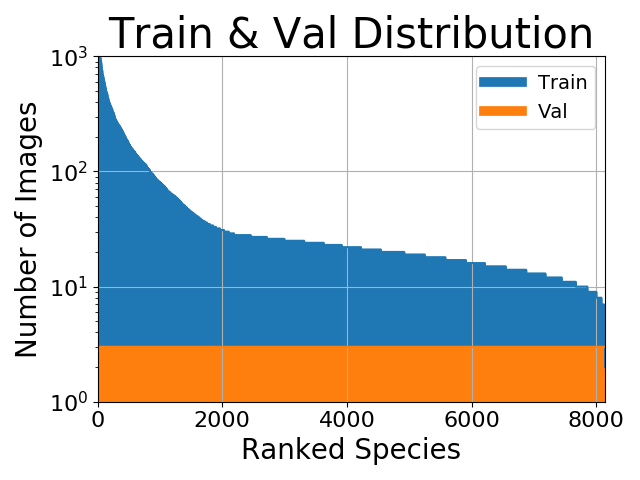
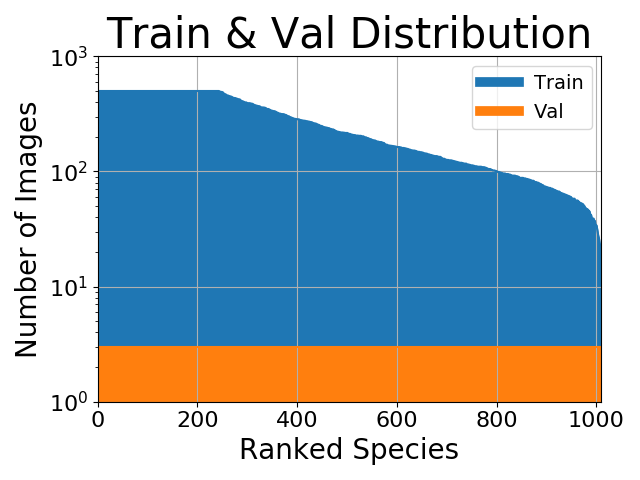
working on 2019

diff --git a/2018/README.md b/2018/README.md
@@ -1,52 +1,86 @@
-![Banner](https://rawgit.com/visipedia/inat_comp/master/assets/banner2019.gif)
+![Banner](https://rawgit.com/visipedia/inat_comp/master/assets/banner2018.jpg)
 
-# iNaturalist 2019 Competition
-The 2019 competition is part of the [FGVC^6 workshop](https://sites.google.com/view/fgvc6/home) at [CVPR](http://cvpr2019.thecvf.com/).
+# iNaturalist 2018 Competition
+The 2018 competition is part of the [FGVC^5 workshop](https://sites.google.com/view/fgvc5/home) at [CVPR](http://cvpr2018.thecvf.com/).
 
 Please open an issue if you have questions or problems with the dataset.
 
 ## Updates
-August 6th, 2019: 
+June 23rd, 2018: 
   * Un-obfuscated names are released. Simply replace the `categories` list in the dataset files with the list found in this [file](http://www.vision.caltech.edu/~gvanhorn/datasets/inaturalist/fgvc5_competition/categories.json.tar.gz).
 
-  * Thanks to everyone who attended and participated in the [FGVC5 workshop](https://sites.google.com/view/fgvc6/home)! Slides from the competition overview can be found [here](https://drive.google.com/file/d/1Ah5haDF6kFioQzy45-HKTsxZCqGwondf/view).
+  * Thanks to everyone who attended and participated in the [FGVC5 workshop](https://sites.google.com/view/fgvc5/home)! Slides from the competition overview and presentations from the top two teams can be found [here](https://www.dropbox.com/s/52nz6qc3zcwqhoa/iNaturalist_Competition_FGVC_2018.pdf?dl=0).
+
+  * A video of the validation images can be viewed [here](https://www.youtube.com/watch?v=LNq1rCUf7v4).
+
+April 10th, 2018: Bounding boxes have been added to the 2017 dataset, see [here](2017/README.md#bounding-boxes).
 
 ## Kaggle
-We are using Kaggle to host the leaderboard. Checkout the competition page [here](https://www.kaggle.com/c/inaturalist-2019-fgvc6).
+We are using Kaggle to host the leaderboard. Checkout the competition page [here](https://www.kaggle.com/c/inaturalist-2018).
 
 ## Dates
 |||
 |------|---------------|
-Data Released|March, 2019|
-Submission Server Open |March, 2019|
-Submission Deadline|June, 2019|
-Winners Announced|June, 2019|
+Data Released|February, 2018|
+Submission Server Open |February, 2018|
+Submission Deadline|June, 2018|
+Winners Announced|June, 2018|
 
 ## Details
-There are a total of 1,010 species in the dataset, spanning 72 genera, with a combined training and validation set of 268,243 images. The dataset was constructed such that each genera contains at least 10 species, making the dataset inherently fine-grained. 
+There are a total of 8,142 species in the dataset, with 437,513 training and 24,426 validation images.
+
+| Super Category |	Category Count	| Train Images |	Val Images |
+|------|---------------|-------------|---------------|
+Plantae|2,917|118,800|8,751|
+Insecta|2,031|87,192|6,093|
+Aves|1,258|143,950|3,774|
+Actinopterygii|369|7,835|1,107|
+Fungi|321|6,864|963|
+Reptilia|284|22,754|852|
+Mollusca|262|8,007|786|
+Mammalia|234|20,104|702|
+Animalia|178|5,966|534|
+Amphibia|144|11,156|432|
+Arachnida|114|4,037|342|
+Chromista|25|621|75|
+Protozoa|4|211|12|
+Bacteria|1|16|3|
+|||||
+Total|8,142|437,513|24,426|
 
 ![Train Val Distribution](https://rawgit.com/visipedia/inat_comp/master/assets/train_val_distribution.png)
 
+## Video
+Click on the image below to view a video showing images from the validation set.
+[![Video](https://rawgit.com/visipedia/inat_comp/master/assets/inat2018_video.png)](https://www.youtube.com/watch?v=LNq1rCUf7v4)
 
 ## Evaluation
-This competition employs average top-1 error. For each image <img src="https://rawgit.com/visipedia/inat_comp/2019/svgs/77a3b857d53fb44e33b53e4c8b68351a.svg?invert_in_darkmode" align=middle width=5.642109000000004pt height=21.602129999999985pt/>, an algorithm will produce 1 label <img src="https://rawgit.com/visipedia/inat_comp/2019/svgs/bb29cf3d0decad4c2df62b08fbcb2d23.svg?invert_in_darkmode" align=middle width=9.520170000000002pt height=22.745910000000016pt/>. Each image has one ground truth label <img src="https://rawgit.com/visipedia/inat_comp/2019/svgs/681a37b53b66acbc455e39ca3e6f1c41.svg?invert_in_darkmode" align=middle width=12.444795000000004pt height=14.102549999999994pt/>, and the error for that image is:
-<p align="center"><img src="https://rawgit.com/visipedia/inat_comp/2019/svgs/d04cfdb4d46bd80e8835a37572804c82.svg?invert_in_darkmode" align=middle width=87.16207499999999pt height=16.376943pt/></p>
+We follow a similar metric to the classification tasks of the [ILSVRC](http://image-net.org/challenges/LSVRC/2016/index#scene). For each image <img src="https://rawgit.com/visipedia/inat_comp/2019/2018/svgs/77a3b857d53fb44e33b53e4c8b68351a.svg?invert_in_darkmode" align=middle width=5.642109000000004pt height=21.602129999999985pt/>, an algorithm will produce 3 labels <img src="https://rawgit.com/visipedia/inat_comp/2019/2018/svgs/655bedbaf4a65f397b5041d0fdecde4c.svg?invert_in_darkmode" align=middle width=15.601905000000002pt height=22.745910000000016pt/>, <img src="https://rawgit.com/visipedia/inat_comp/2019/2018/svgs/946e592e2b2753a9272767ae3dd5b9a9.svg?invert_in_darkmode" align=middle width=82.4274pt height=21.602129999999985pt/>. We allow 3 labels because some categories are disambiguated with additional data provided by the observer, such as latitude, longitude and date. For a small percentage of images, it might also be the case that multiple categories occur in an image (e.g. a photo of a bee on a flower). For this competition each image has one ground truth label <img src="https://rawgit.com/visipedia/inat_comp/2019/2018/svgs/681a37b53b66acbc455e39ca3e6f1c41.svg?invert_in_darkmode" align=middle width=12.444795000000004pt height=14.102549999999994pt/>, and the error for that image is:
+<p align="center"><img src="https://rawgit.com/visipedia/inat_comp/2019/2018/svgs/7a42826f81c53c77e0fef3c827238d25.svg?invert_in_darkmode" align=middle width=123.40366499999999pt height=24.865665pt/></p>
 Where
-<p align="center"><img src="https://rawgit.com/visipedia/inat_comp/2019/svgs/7a45c501d5042bd031a267f008fa2ae6.svg?invert_in_darkmode" align=middle width=190.2021pt height=49.131389999999996pt/></p>
+<p align="center"><img src="https://rawgit.com/visipedia/inat_comp/2019/2018/svgs/7a45c501d5042bd031a267f008fa2ae6.svg?invert_in_darkmode" align=middle width=190.2021pt height=49.131389999999996pt/></p>
 
-The overall error score for an algorithm is the average error over all <img src="https://rawgit.com/visipedia/inat_comp/2019/svgs/f9c4988898e7f532b9f826a75014ed3c.svg?invert_in_darkmode" align=middle width=14.944050000000002pt height=22.381919999999983pt/> test images:
-<p align="center"><img src="https://rawgit.com/visipedia/inat_comp/2019/svgs/444adcac0c7cbb4a8419ee1484625349.svg?invert_in_darkmode" align=middle width=118.05122999999999pt height=41.069655pt/></p>
+The overall error score for an algorithm is the average error over all <img src="https://rawgit.com/visipedia/inat_comp/2019/2018/svgs/f9c4988898e7f532b9f826a75014ed3c.svg?invert_in_darkmode" align=middle width=14.944050000000002pt height=22.381919999999983pt/> test images:
+<p align="center"><img src="https://rawgit.com/visipedia/inat_comp/2019/2018/svgs/444adcac0c7cbb4a8419ee1484625349.svg?invert_in_darkmode" align=middle width=118.05122999999999pt height=41.069655pt/></p>
 
-## Differences from iNaturalist 2018 Competition
-The primary difference between the 2019 competition and the [2018 Competition](2018/README.md) is the way species were selected for the dataset. For the 2019 dataset, we filtered out all species that had insufficient observations. From this reduced set, we filtered out all species that were not members of genera with at least 10 species remaining. This produced a dataset of 72 genera, each with at least 10 species, for a total of 1010 species. Our aim was to produce a collection of fine-grained problems that are representative of the natural world. We made the evalue metric more strict in 2019, going to top-1 error as opposed to top-3. 
+## Differences from iNaturalist 2017 Competition
+The 2018 competition differs from the [2017 Competition](2017/README.md) in several ways:
 
+### Species Only
+The 2017 dataset categories contained mostly species, but also had a few additional taxonomic ranks (e.g. genus, subspecies, and variety). The 2018 categories are all species.
 
+### Taxonomy Information & Obfuscation
+The 2018 dataset contains kingdom, phylum, class, order, family, and genus taxonomic information for all species. However, we have obfuscated all taxonomic names (including the species name) to hinder participants from performing web searchs to collect additional data.
 
+### Data Overlap
+The 2018 dataset contains some species and images that are found in the 2017 dataset. However, we will not provide a mapping between the two datasets.
 
+### Scoring Metric
+The 2018 competition allows for 3 guesses per test image, whereas the 2017 competition allowed 5.
 
 ## Guidelines
 
-Participants are welcome to use the [iNaturalist 2018](2018/README.md) and [iNaturalist 2017](2017/README.md) competition datasets as an additional data source. There is an overlap between the 2017 + 2018 species and the 2019 species, however we do not provide a mapping. Besides using the 2017 and 2018 datasetd, participants are restricted from collecting additional natural world data for the 2019 competition. Pretrained models may be used to construct the algorithms (e.g. ImageNet pretrained models, or iNaturalist 2017 pretrained models). Please specify any and all external data used for training when uploading results.
+Participants are welcome to use the [iNaturalist 2017 Competition dataset](2017/README.md) as an additional data source. There is an overlap between the 2017 species and the 2018 species, however we do not provide a mapping between the two datasets. Besides using the 2017 dataset, participants are restricted from collecting additional natural world data for the 2018 competition. Pretrained models may be used to construct the algorithms (e.g. ImageNet pretrained models, or iNaturalist 2017 pretrained models). Please specify any and all external data used for training when uploading results.
 
 The general rule is that participants should only use the provided training and validation images (with the exception of the allowed pretrained models) to train a model to classify the test images. We do not want participants crawling the web in search of additional data for the target categories. Participants should be in the mindset that this is the only data available for these categories.
 
@@ -84,6 +118,7 @@ image{
 category{
   "id" : int,
   "name" : str,
+  "supercategory" : str,
   "kingdom" : str,
   "phylum" : str,
   "class" : str,
@@ -110,10 +145,10 @@ license{
 The submission format for the Kaggle competition is a csv file with the following format:
 ```
 id,predicted
-12345,0
-67890,83
+12345,0 78 23
+67890,83 13 42
 ```
-The `id` column corresponds to the test image id. The `predicted` column corresponds to the predicted category ids. You should have one row for each test image.
+The `id` column corresponds to the test image id. The `predicted` column corresponds to 3 category ids, separated by spaces. You should have one row for each test image. Please sort your predictions from most confident to least, from left to right, this will allow us to study top-1, top-2, and top-3 accuracy.
 
 ## Terms of Use
 

diff --git a/2018/README_raw.md b/2018/README_raw.md
@@ -1,52 +1,96 @@
-![Banner](https://rawgit.com/visipedia/inat_comp/master/assets/banner2019.gif)
+![Banner](https://rawgit.com/visipedia/inat_comp/master/assets/banner2018.jpg)
 
-# iNaturalist 2019 Competition
-The 2019 competition is part of the [FGVC^6 workshop](https://sites.google.com/view/fgvc6/home) at [CVPR](http://cvpr2019.thecvf.com/).
+# iNaturalist 2018 Competition
+The 2018 competition is part of the [FGVC^5 workshop](https://sites.google.com/view/fgvc5/home) at [CVPR](http://cvpr2018.thecvf.com/).
 
 Please open an issue if you have questions or problems with the dataset.
 
 ## Updates
-August 6th, 2019: 
+June 23rd, 2018: 
   * Un-obfuscated names are released. Simply replace the `categories` list in the dataset files with the list found in this [file](http://www.vision.caltech.edu/~gvanhorn/datasets/inaturalist/fgvc5_competition/categories.json.tar.gz).
 
-  * Thanks to everyone who attended and participated in the [FGVC5 workshop](https://sites.google.com/view/fgvc6/home)! Slides from the competition overview can be found [here](https://drive.google.com/file/d/1Ah5haDF6kFioQzy45-HKTsxZCqGwondf/view).
+  * Thanks to everyone who attended and participated in the [FGVC5 workshop](https://sites.google.com/view/fgvc5/home)! Slides from the competition overview and presentations from the top two teams can be found [here](https://www.dropbox.com/s/52nz6qc3zcwqhoa/iNaturalist_Competition_FGVC_2018.pdf?dl=0).
+
+  * A video of the validation images can be viewed [here](https://www.youtube.com/watch?v=LNq1rCUf7v4).
+
+April 10th, 2018: Bounding boxes have been added to the 2017 dataset, see [here](2017/README.md#bounding-boxes).
 
 ## Kaggle
-We are using Kaggle to host the leaderboard. Checkout the competition page [here](https://www.kaggle.com/c/inaturalist-2019-fgvc6).
+We are using Kaggle to host the leaderboard. Checkout the competition page [here](https://www.kaggle.com/c/inaturalist-2018).
 
 ## Dates
 |||
 |------|---------------|
-Data Released|March, 2019|
-Submission Server Open |March, 2019|
-Submission Deadline|June, 2019|
-Winners Announced|June, 2019|
+Data Released|February, 2018|
+Submission Server Open |February, 2018|
+Submission Deadline|June, 2018|
+Winners Announced|June, 2018|
 
 ## Details
-There are a total of 1,010 species in the dataset, spanning 72 genera, with a combined training and validation set of 268,243 images. The dataset was constructed such that each genera contains at least 10 species, making the dataset inherently fine-grained. 
+There are a total of 8,142 species in the dataset, with 437,513 training and 24,426 validation images.
+
+| Super Category |	Category Count	| Train Images |	Val Images |
+|------|---------------|-------------|---------------|
+Plantae|2,917|118,800|8,751|
+Insecta|2,031|87,192|6,093|
+Aves|1,258|143,950|3,774|
+Actinopterygii|369|7,835|1,107|
+Fungi|321|6,864|963|
+Reptilia|284|22,754|852|
+Mollusca|262|8,007|786|
+Mammalia|234|20,104|702|
+Animalia|178|5,966|534|
+Amphibia|144|11,156|432|
+Arachnida|114|4,037|342|
+Chromista|25|621|75|
+Protozoa|4|211|12|
+Bacteria|1|16|3|
+|||||
+Total|8,142|437,513|24,426|
 
 ![Train Val Distribution](https://rawgit.com/visipedia/inat_comp/master/assets/train_val_distribution.png)
 
+## Video
+Click on the image below to view a video showing images from the validation set.
+[![Video](https://rawgit.com/visipedia/inat_comp/master/assets/inat2018_video.png)](https://www.youtube.com/watch?v=LNq1rCUf7v4)
 
 ## Evaluation
-This competition employs average top-1 error. For each image <img src="https://rawgit.com/visipedia/inat_comp/2019/svgs/77a3b857d53fb44e33b53e4c8b68351a.svg?invert_in_darkmode" align=middle width=5.642109000000004pt height=21.602129999999985pt/>, an algorithm will produce 1 label <img src="https://rawgit.com/visipedia/inat_comp/2019/svgs/bb29cf3d0decad4c2df62b08fbcb2d23.svg?invert_in_darkmode" align=middle width=9.520170000000002pt height=22.745910000000016pt/>. Each image has one ground truth label <img src="https://rawgit.com/visipedia/inat_comp/2019/svgs/681a37b53b66acbc455e39ca3e6f1c41.svg?invert_in_darkmode" align=middle width=12.444795000000004pt height=14.102549999999994pt/>, and the error for that image is:
-<p align="center"><img src="https://rawgit.com/visipedia/inat_comp/2019/svgs/d04cfdb4d46bd80e8835a37572804c82.svg?invert_in_darkmode" align=middle width=87.16207499999999pt height=16.376943pt/></p>
+We follow a similar metric to the classification tasks of the [ILSVRC](http://image-net.org/challenges/LSVRC/2016/index#scene). For each image $i$, an algorithm will produce 3 labels $l_{ij}$, $j=1,\ldots,3$. We allow 3 labels because some categories are disambiguated with additional data provided by the observer, such as latitude, longitude and date. For a small percentage of images, it might also be the case that multiple categories occur in an image (e.g. a photo of a bee on a flower). For this competition each image has one ground truth label $g_i$, and the error for that image is:
+$$
+e_i = \min_{j}d(l_{ij}, g_i)
+$$
 Where
-<p align="center"><img src="https://rawgit.com/visipedia/inat_comp/2019/svgs/7a45c501d5042bd031a267f008fa2ae6.svg?invert_in_darkmode" align=middle width=190.2021pt height=49.131389999999996pt/></p>
+$$
+d(x, y) =
+\begin{cases}
+    0       & \quad \text{if } x = y \\
+    1  & \quad \text{otherwise}\\
+\end{cases}
+$$
 
-The overall error score for an algorithm is the average error over all <img src="https://rawgit.com/visipedia/inat_comp/2019/svgs/f9c4988898e7f532b9f826a75014ed3c.svg?invert_in_darkmode" align=middle width=14.944050000000002pt height=22.381919999999983pt/> test images:
-<p align="center"><img src="https://rawgit.com/visipedia/inat_comp/2019/svgs/444adcac0c7cbb4a8419ee1484625349.svg?invert_in_darkmode" align=middle width=118.05122999999999pt height=41.069655pt/></p>
+The overall error score for an algorithm is the average error over all $N$ test images:
+$$
+\text{score} = \frac{1}{N} \sum_{i} e_{i}
+$$
 
-## Differences from iNaturalist 2018 Competition
-The primary difference between the 2019 competition and the [2018 Competition](2018/README.md) is the way species were selected for the dataset. For the 2019 dataset, we filtered out all species that had insufficient observations. From this reduced set, we filtered out all species that were not members of genera with at least 10 species remaining. This produced a dataset of 72 genera, each with at least 10 species, for a total of 1010 species. Our aim was to produce a collection of fine-grained problems that are representative of the natural world. We made the evalue metric more strict in 2019, going to top-1 error as opposed to top-3. 
+## Differences from iNaturalist 2017 Competition
+The 2018 competition differs from the [2017 Competition](2017/README.md) in several ways:
 
+### Species Only
+The 2017 dataset categories contained mostly species, but also had a few additional taxonomic ranks (e.g. genus, subspecies, and variety). The 2018 categories are all species.
 
+### Taxonomy Information & Obfuscation
+The 2018 dataset contains kingdom, phylum, class, order, family, and genus taxonomic information for all species. However, we have obfuscated all taxonomic names (including the species name) to hinder participants from performing web searchs to collect additional data.
 
+### Data Overlap
+The 2018 dataset contains some species and images that are found in the 2017 dataset. However, we will not provide a mapping between the two datasets.
 
+### Scoring Metric
+The 2018 competition allows for 3 guesses per test image, whereas the 2017 competition allowed 5.
 
 ## Guidelines
 
-Participants are welcome to use the [iNaturalist 2018](2018/README.md) and [iNaturalist 2017](2017/README.md) competition datasets as an additional data source. There is an overlap between the 2017 + 2018 species and the 2019 species, however we do not provide a mapping. Besides using the 2017 and 2018 datasetd, participants are restricted from collecting additional natural world data for the 2019 competition. Pretrained models may be used to construct the algorithms (e.g. ImageNet pretrained models, or iNaturalist 2017 pretrained models). Please specify any and all external data used for training when uploading results.
+Participants are welcome to use the [iNaturalist 2017 Competition dataset](2017/README.md) as an additional data source. There is an overlap between the 2017 species and the 2018 species, however we do not provide a mapping between the two datasets. Besides using the 2017 dataset, participants are restricted from collecting additional natural world data for the 2018 competition. Pretrained models may be used to construct the algorithms (e.g. ImageNet pretrained models, or iNaturalist 2017 pretrained models). Please specify any and all external data used for training when uploading results.
 
 The general rule is that participants should only use the provided training and validation images (with the exception of the allowed pretrained models) to train a model to classify the test images. We do not want participants crawling the web in search of additional data for the target categories. Participants should be in the mindset that this is the only data available for these categories.
 
@@ -84,6 +128,7 @@ image{
 category{
   "id" : int,
   "name" : str,
+  "supercategory" : str,
   "kingdom" : str,
   "phylum" : str,
   "class" : str,
@@ -110,10 +155,10 @@ license{
 The submission format for the Kaggle competition is a csv file with the following format:
 ```
 id,predicted
-12345,0
-67890,83
+12345,0 78 23
+67890,83 13 42
 ```
-The `id` column corresponds to the test image id. The `predicted` column corresponds to the predicted category ids. You should have one row for each test image.
+The `id` column corresponds to the test image id. The `predicted` column corresponds to 3 category ids, separated by spaces. You should have one row for each test image. Please sort your predictions from most confident to least, from left to right, this will allow us to study top-1, top-2, and top-3 accuracy.
 
 ## Terms of Use
 

diff --git a/README_raw.md b/README_raw.md
@@ -1,63 +1,37 @@
-![Banner](https://rawgit.com/visipedia/inat_comp/master/assets/banner2018.jpg)
+![Banner](https://rawgit.com/visipedia/inat_comp/master/assets/banner2019.gif)
 
-# iNaturalist 2018 Competition
-The 2018 competition is part of the [FGVC^5 workshop](https://sites.google.com/view/fgvc5/home) at [CVPR](http://cvpr2018.thecvf.com/).
+# iNaturalist 2019 Competition
+The 2019 competition is part of the [FGVC^6 workshop](https://sites.google.com/view/fgvc6/home) at [CVPR](http://cvpr2019.thecvf.com/).
 
 Please open an issue if you have questions or problems with the dataset.
 
 ## Updates
-June 23rd, 2018: 
+August 6th, 2019: 
   * Un-obfuscated names are released. Simply replace the `categories` list in the dataset files with the list found in this [file](http://www.vision.caltech.edu/~gvanhorn/datasets/inaturalist/fgvc5_competition/categories.json.tar.gz).
 
-  * Thanks to everyone who attended and participated in the [FGVC5 workshop](https://sites.google.com/view/fgvc5/home)! Slides from the competition overview and presentations from the top two teams can be found [here](https://www.dropbox.com/s/52nz6qc3zcwqhoa/iNaturalist_Competition_FGVC_2018.pdf?dl=0).
-
-  * A video of the validation images can be viewed [here](https://www.youtube.com/watch?v=LNq1rCUf7v4).
-
-April 10th, 2018: Bounding boxes have been added to the 2017 dataset, see [here](2017/README.md#bounding-boxes).
+  * Thanks to everyone who attended and participated in the [FGVC5 workshop](https://sites.google.com/view/fgvc6/home)! Slides from the competition overview can be found [here](https://drive.google.com/file/d/1Ah5haDF6kFioQzy45-HKTsxZCqGwondf/view).
 
 ## Kaggle
-We are using Kaggle to host the leaderboard. Checkout the competition page [here](https://www.kaggle.com/c/inaturalist-2018).
+We are using Kaggle to host the leaderboard. Checkout the competition page [here](https://www.kaggle.com/c/inaturalist-2019-fgvc6).
 
 ## Dates
 |||
 |------|---------------|
-Data Released|February, 2018|
-Submission Server Open |February, 2018|
-Submission Deadline|June, 2018|
-Winners Announced|June, 2018|
+Data Released|March, 2019|
+Submission Server Open |March, 2019|
+Submission Deadline|June, 2019|
+Winners Announced|June, 2019|
 
 ## Details
-There are a total of 8,142 species in the dataset, with 437,513 training and 24,426 validation images.
-
-| Super Category |	Category Count	| Train Images |	Val Images |
-|------|---------------|-------------|---------------|
-Plantae|2,917|118,800|8,751|
-Insecta|2,031|87,192|6,093|
-Aves|1,258|143,950|3,774|
-Actinopterygii|369|7,835|1,107|
-Fungi|321|6,864|963|
-Reptilia|284|22,754|852|
-Mollusca|262|8,007|786|
-Mammalia|234|20,104|702|
-Animalia|178|5,966|534|
-Amphibia|144|11,156|432|
-Arachnida|114|4,037|342|
-Chromista|25|621|75|
-Protozoa|4|211|12|
-Bacteria|1|16|3|
-|||||
-Total|8,142|437,513|24,426|
+There are a total of 1,010 species in the dataset, spanning 72 genera, with a combined training and validation set of 268,243 images. The dataset was constructed such that each genera contains at least 10 species, making the dataset inherently fine-grained. 
 
 ![Train Val Distribution](https://rawgit.com/visipedia/inat_comp/master/assets/train_val_distribution.png)
 
-## Video
-Click on the image below to view a video showing images from the validation set.
-[![Video](https://rawgit.com/visipedia/inat_comp/master/assets/inat2018_video.png)](https://www.youtube.com/watch?v=LNq1rCUf7v4)
 
 ## Evaluation
-We follow a similar metric to the classification tasks of the [ILSVRC](http://image-net.org/challenges/LSVRC/2016/index#scene). For each image $i$, an algorithm will produce 3 labels $l_{ij}$, $j=1,\ldots,3$. We allow 3 labels because some categories are disambiguated with additional data provided by the observer, such as latitude, longitude and date. For a small percentage of images, it might also be the case that multiple categories occur in an image (e.g. a photo of a bee on a flower). For this competition each image has one ground truth label $g_i$, and the error for that image is:
+This competition employs average top-1 error. For each image $i$, an algorithm will produce 1 label $l_i$. Each image has one ground truth label $g_i$, and the error for that image is:
 $$
-e_i = \min_{j}d(l_{ij}, g_i)
+e_i = d(l_i, g_i)
 $$
 Where
 $$
@@ -73,24 +47,16 @@ $$
 \text{score} = \frac{1}{N} \sum_{i} e_{i}
 $$
 
-## Differences from iNaturalist 2017 Competition
-The 2018 competition differs from the [2017 Competition](2017/README.md) in several ways:
+## Differences from iNaturalist 2018 Competition
+The primary difference between the 2019 competition and the [2018 Competition](2018/README.md) is the way species were selected for the dataset. For the 2019 dataset, we filtered out all species that had insufficient observations. From this reduced set, we filtered out all species that were not members of genera with at least 10 species remaining. This produced a dataset of 72 genera, each with at least 10 species, for a total of 1010 species. Our aim was to produce a collection of fine-grained problems that are representative of the natural world. We made the evalue metric more strict in 2019, going to top-1 error as opposed to top-3. 
 
-### Species Only
-The 2017 dataset categories contained mostly species, but also had a few additional taxonomic ranks (e.g. genus, subspecies, and variety). The 2018 categories are all species.
 
-### Taxonomy Information & Obfuscation
-The 2018 dataset contains kingdom, phylum, class, order, family, and genus taxonomic information for all species. However, we have obfuscated all taxonomic names (including the species name) to hinder participants from performing web searchs to collect additional data.
 
-### Data Overlap
-The 2018 dataset contains some species and images that are found in the 2017 dataset. However, we will not provide a mapping between the two datasets.
 
-### Scoring Metric
-The 2018 competition allows for 3 guesses per test image, whereas the 2017 competition allowed 5.
 
 ## Guidelines
 
-Participants are welcome to use the [iNaturalist 2017 Competition dataset](2017/README.md) as an additional data source. There is an overlap between the 2017 species and the 2018 species, however we do not provide a mapping between the two datasets. Besides using the 2017 dataset, participants are restricted from collecting additional natural world data for the 2018 competition. Pretrained models may be used to construct the algorithms (e.g. ImageNet pretrained models, or iNaturalist 2017 pretrained models). Please specify any and all external data used for training when uploading results.
+Participants are welcome to use the [iNaturalist 2018](2018/README.md) and [iNaturalist 2017](2017/README.md) competition datasets as an additional data source. There is an overlap between the 2017 + 2018 species and the 2019 species, however we do not provide a mapping. Besides using the 2017 and 2018 datasetd, participants are restricted from collecting additional natural world data for the 2019 competition. Pretrained models may be used to construct the algorithms (e.g. ImageNet pretrained models, or iNaturalist 2017 pretrained models). Please specify any and all external data used for training when uploading results.
 
 The general rule is that participants should only use the provided training and validation images (with the exception of the allowed pretrained models) to train a model to classify the test images. We do not want participants crawling the web in search of additional data for the target categories. Participants should be in the mindset that this is the only data available for these categories.
 
@@ -128,7 +94,6 @@ image{
 category{
   "id" : int,
   "name" : str,
-  "supercategory" : str,
   "kingdom" : str,
   "phylum" : str,
   "class" : str,
@@ -155,10 +120,10 @@ license{
 The submission format for the Kaggle competition is a csv file with the following format:
 ```
 id,predicted
-12345,0 78 23
-67890,83 13 42
+12345,0
+67890,83
 ```
-The `id` column corresponds to the test image id. The `predicted` column corresponds to 3 category ids, separated by spaces. You should have one row for each test image. Please sort your predictions from most confident to least, from left to right, this will allow us to study top-1, top-2, and top-3 accuracy.
+The `id` column corresponds to the test image id. The `predicted` column corresponds to the predicted category ids. You should have one row for each test image.
 
 ## Terms of Use
 
